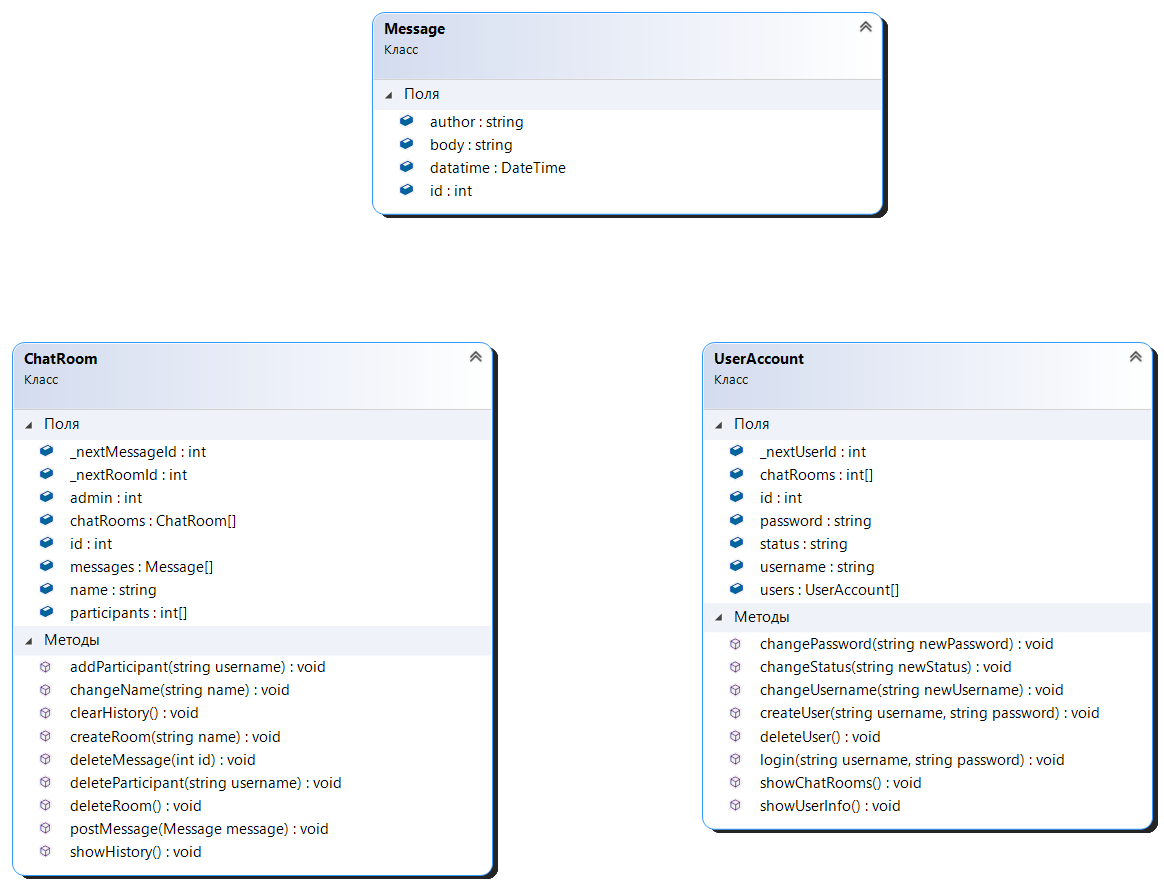
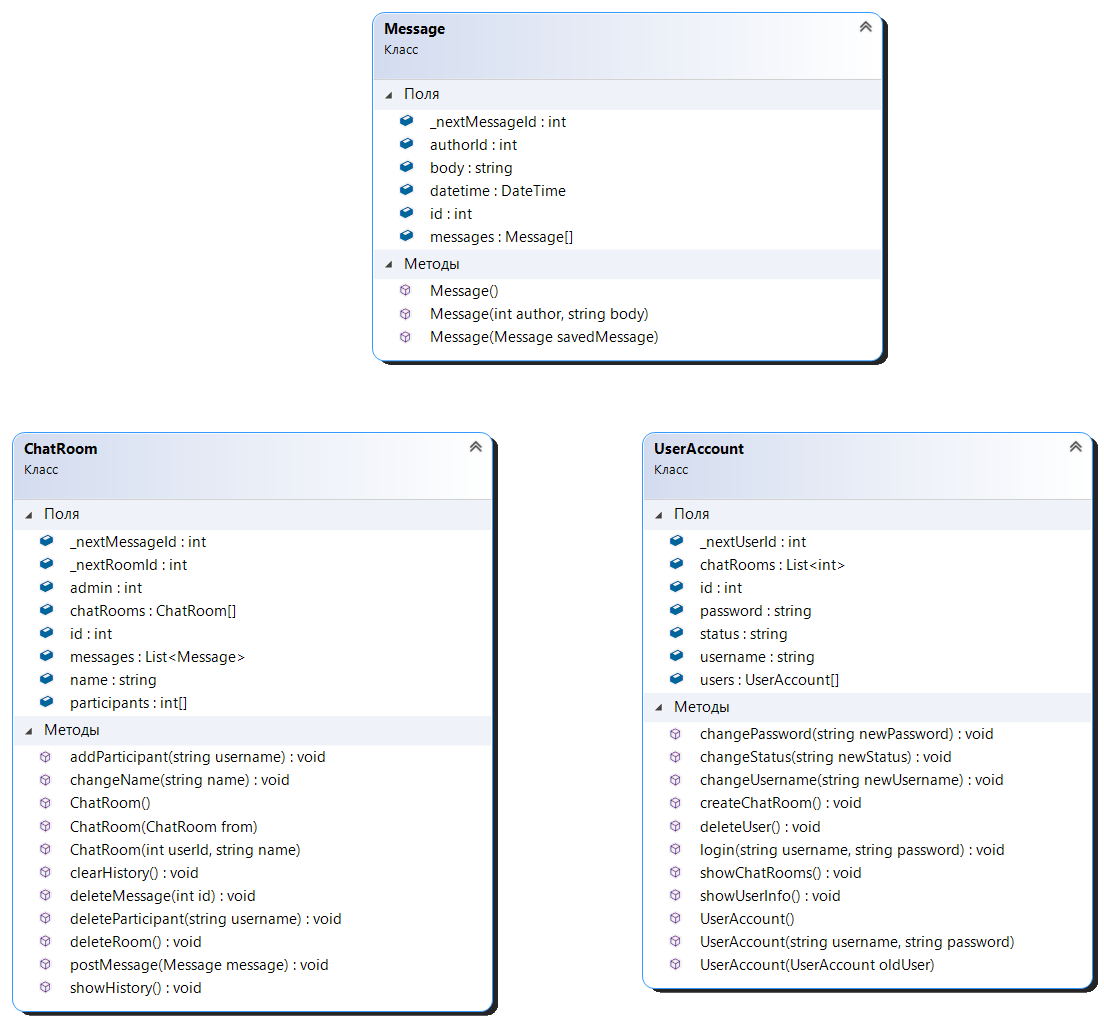
update class diagram

Changed region(s): [[0.308, 0.0, 1.0, 0.9752], [0.0, 0.3657, 0.462, 1.0]]

diff --git a/Models/UserAccount.cs b/Models/UserAccount.cs
@@ -5,14 +5,14 @@ using System.Text;
 namespace Messenger {
     public class UserAccount {
 
-        private static UserAccount[] users = new UserAccount[100];
-        private static int _nextUserId = 0;
+        public static UserAccount[] users = new UserAccount[100];
+        public static int _nextUserId = 0;
 
         public int id;
-        private string username;
-        private string password;
-        private string status;
-        private List<int> chatRooms;
+        public string username;
+        public string password;
+        public string status;
+        public List<int> chatRooms;
         
         public UserAccount() {
             this.id = UserAccount._nextUserId++;
@@ -45,18 +45,18 @@ namespace Messenger {
             Console.WriteLine("UserAccount created constructor copy");
         }
 
-        private void createChatRoom() {
+        public void createChatRoom() {
             ChatRoom chat = new ChatRoom();
             this.chatRooms.Add(chat.id);
         }
 
         public static void login(string username, string password) { }
 
-        private void deleteUser() { }
-        private void showChatRooms() { }
-        private void showUserInfo() { }
-        private void changePassword(string newPassword) { }
-        private void changeUsername(string newUsername) { }
-        private void changeStatus(string newStatus) { }
+        public void deleteUser() { }
+        public void showChatRooms() { }
+        public void showUserInfo() { }
+        public void changePassword(string newPassword) { }
+        public void changeUsername(string newUsername) { }
+        public void changeStatus(string newStatus) { }
     }
 }
